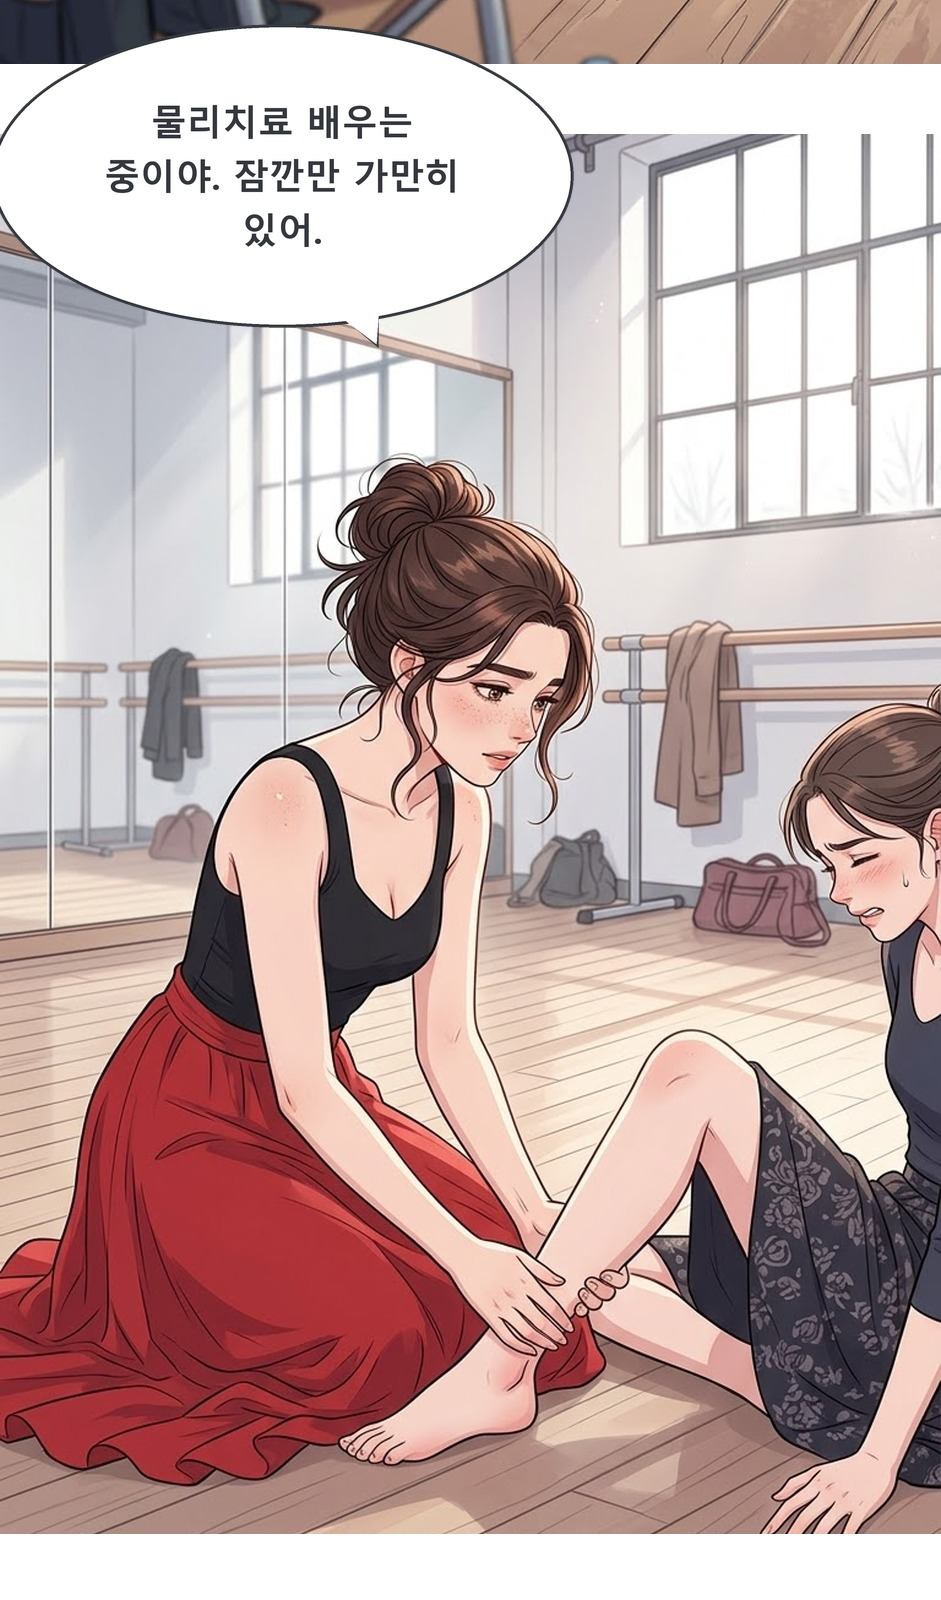
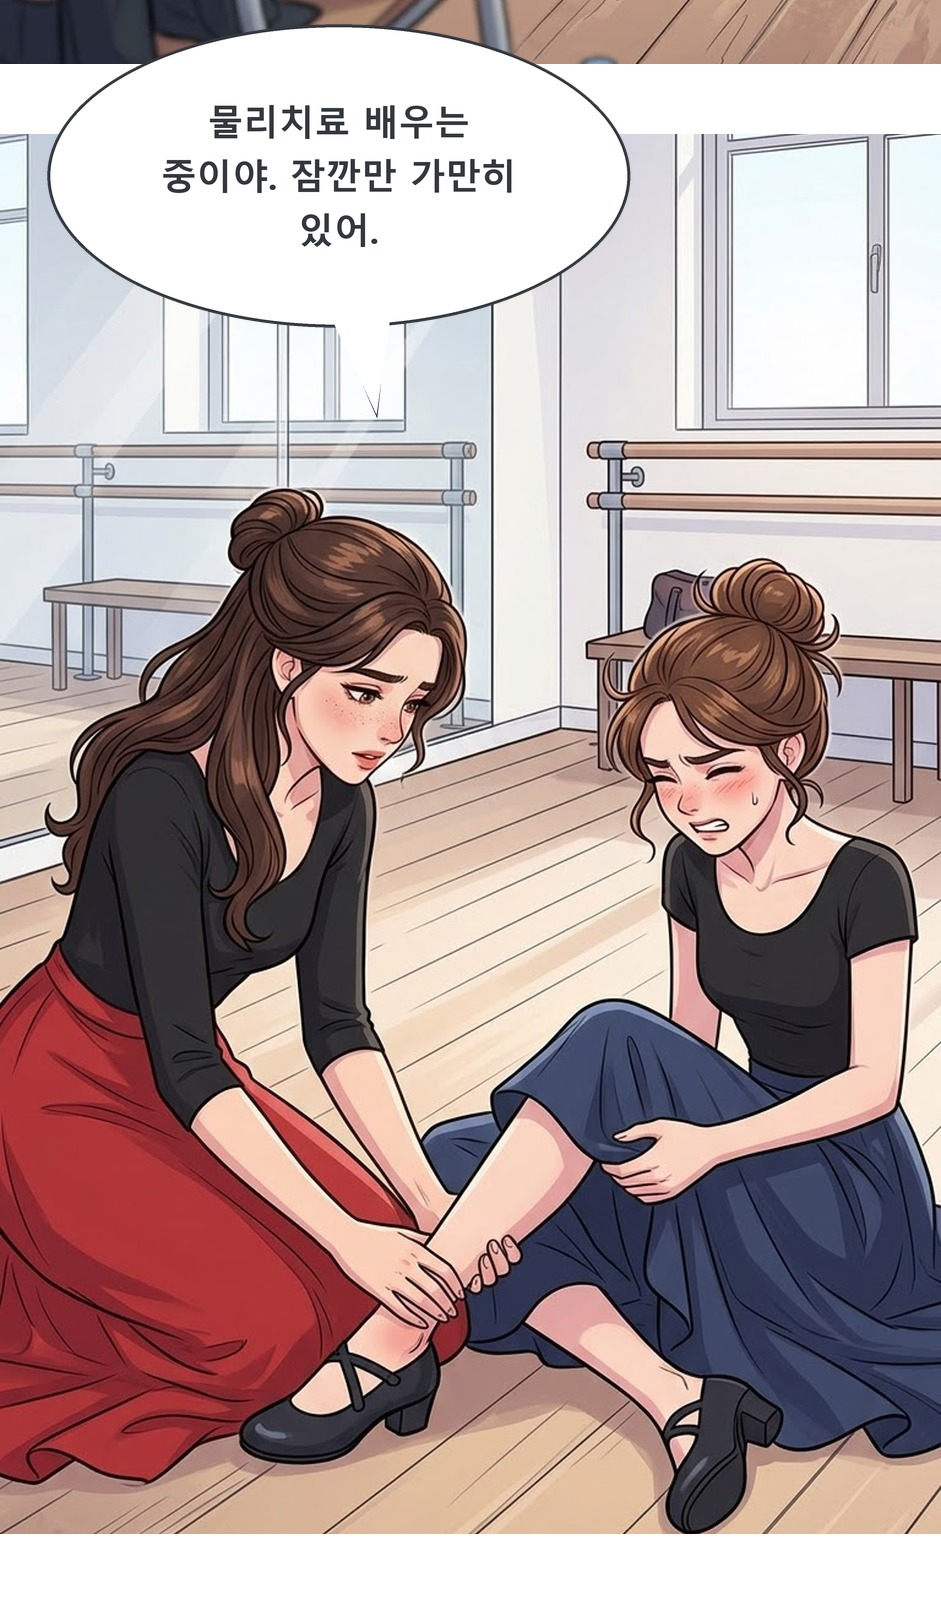
fix: 시즌2 3화 18·19컷 플라멩코 학생 일관성(17컷과 같은 얼굴·남색 치마), 말풍선 꼬리

diff --git a/index.html b/index.html
@@ -52,7 +52,7 @@ footer{text-align:center;color:var(--muted);font-size:12px;padding:24px 16px 40p
 <nav id="nav"></nav>
 <main id="main"></main>
 <footer>여호수아 시즌1은 기존 Joshua-story 사이트에서 열립니다.</footer>
-<script src="data.js?v=202610201630"></script>
+<script src="data.js?v=202610201735"></script>
 <script>
 const esc = s => String(s).replace(/[&<>"]/g, c => ({'&':'&amp;','<':'&lt;','>':'&gt;','"':'&quot;'}[c]));
 const nav = document.getElementById('nav'), main = document.getElementById('main');

diff --git a/viewer.html b/viewer.html
@@ -41,7 +41,7 @@ select{font:inherit;font-size:13px;padding:4px 6px;border:1px solid var(--line);
   <p id="endNote"></p>
   <div class="nav" id="nav"></div>
 </div>
-<script src="data.js?v=202610201630"></script>
+<script src="data.js?v=202610201735"></script>
 <script>
 const sid = new URLSearchParams(location.search).get('s') || 'pureday';  // 2026-10-20 시즌2 카드
 const s = window.PORTAL.series.find(x => x.id === sid) || window.PORTAL.series.find(x => x.id === 'pureday');
